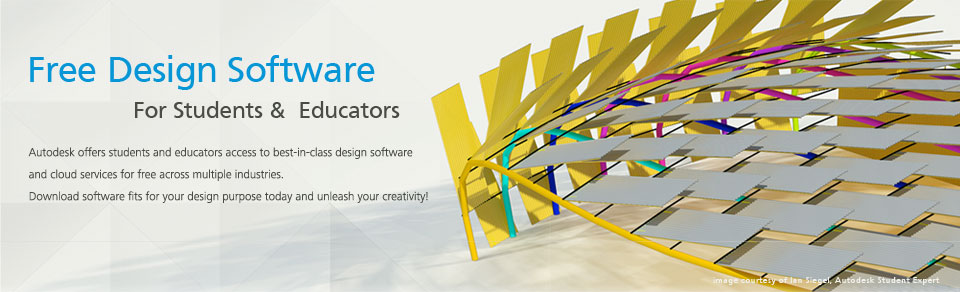
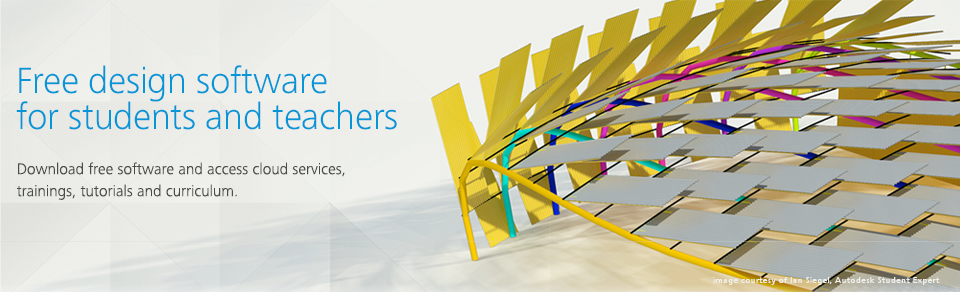
Web font css added

Changed region(s): [[0.0, 0.1849, 0.4375, 0.4623], [0.0, 0.4932, 0.4375, 0.7089], [0.7812, 0.9555, 0.8125, 0.9863]]

diff --git a/bootstrap.js b/bootstrap.js
@@ -28,12 +28,16 @@ var clearContent = (function() {
 $(document).ready(function() {
     if (window.location.hash != "#admin") {
         clearContent();
-        //loadStyle();
+        loadStyle();
         renderPage();
     } else {
         $('#page_wrapper,#page').css({ 'background-image': 'none' });
     }
 });
+
+var loadStyle = function() {
+	$('head').append('<link rel="stylesheet" href="http://static.autodesk.net/etc/designs/v021/autodesk/adsk-design/clientlibs/css/fonts.css">');
+}
 
 /* 渲染页面 */
 var renderPage = function() {
